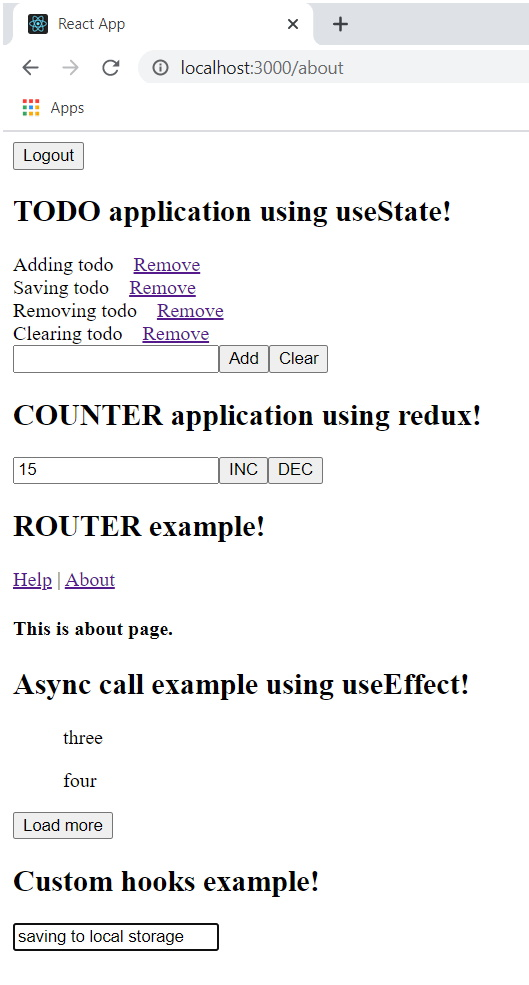
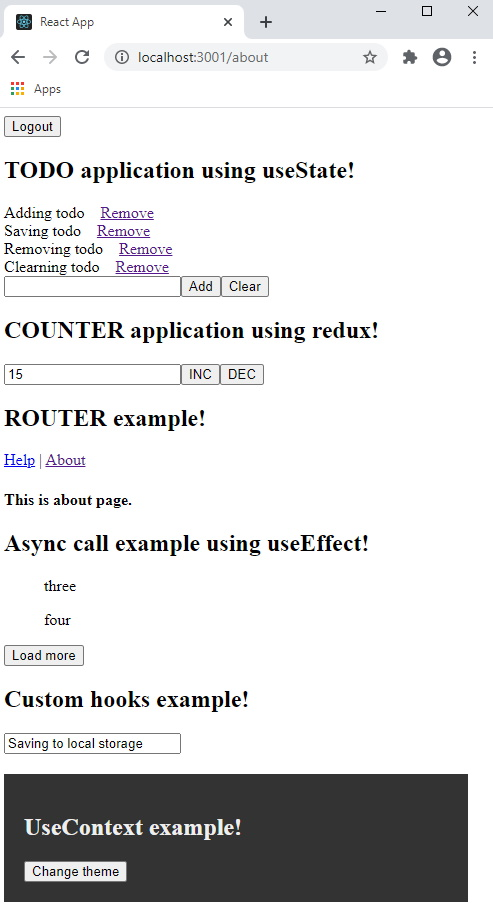
adding useContext example

Changed region(s): [[0.0, 0.0, 1.0, 0.546], [0.0, 0.5764, 0.9736, 1.0]]

diff --git a/src/App.js b/src/App.js
@@ -5,17 +5,18 @@ import Counter from './components/Counter';
 import Navigation from './components/Navigation';
 import SomeList from './components/SomeList';
 import SomeInput from './components/SomeInput';
+import ContextExample from './components/ContextExample';
+// importing custom hooks
+import { ThemeProvider } from './hooks/ThemeContext';
 
 
-
-function App () {
+export default function App () {
   // useState gives us the opportunity to maintain state.
   const [isLoggedIn, setLoggedIn] = useState(false);
-
   // keys to store in localStorage
   const IS_LOGGED_IN = "is_logged_in";
-
-
+  
+  
 
   // useEffect gives us the opportunity to react to changes on objects. 
   useEffect(() => {
@@ -42,6 +43,7 @@ function App () {
   
 
 
+
   if(isLoggedIn) {
     return (
         <div>
@@ -51,6 +53,9 @@ function App () {
           <Navigation />
           <SomeList />
           <SomeInput />
+          <ThemeProvider>
+            <ContextExample />
+          </ThemeProvider>
         </div>
     );
   } else {
@@ -61,6 +66,3 @@ function App () {
     )
   }
 }
-
-
-export default App;

diff --git a/src/hooks/ThemeContext.js b/src/hooks/ThemeContext.js
@@ -1,0 +1,32 @@
+import React, { useState, useContext } from 'react';
+
+// Creating two contexts
+export const ThemeContext = React.createContext();
+export const ThemeUpdateContext = React.createContext();
+
+// Custom hooks 1 (used by ContentExample)
+export function useTheme() {
+  return useContext(ThemeContext);
+}
+
+// Custom hooks 2 (used by ContextExample)
+export function useUpdateTheme() {
+  return useContext(ThemeUpdateContext);
+}
+
+// Custom hooks 3 (used by App)
+export function ThemeProvider({ children }) {
+  const [darkTheme, setDarkTheme]  = useState(false);
+
+  function changeThemeHandler (e) {
+    setDarkTheme(!darkTheme);
+  }
+
+  return (
+    <ThemeContext.Provider value={darkTheme}>
+      <ThemeUpdateContext.Provider value={changeThemeHandler}>
+        {children}
+      </ThemeUpdateContext.Provider>
+    </ThemeContext.Provider>
+  )
+}

diff --git a/src/components/ContextExample.js b/src/components/ContextExample.js
@@ -1,0 +1,23 @@
+import React, { useContext } from 'react';
+// importing custom hooks.
+import { useTheme, useUpdateTheme } from '../hooks/ThemeContext';
+
+
+export default function ContextExample() {
+  const dark = useTheme();
+  const changeThemeHandler = useUpdateTheme();
+
+  const themeStyle = {
+    backgroundColor: dark ? '#333' :  '#EEE',
+    color: dark ? '#EEE' : '#333',
+    padding: '20px 20px 20px 20px',
+    margin: '20px 20px 20px 0px'
+  }
+  
+  return (
+    <div style={themeStyle}>
+      <h2>UseContext example!</h2>
+      <button onClick={changeThemeHandler}>Change theme</button>
+    </div>
+  )
+}

diff --git a/src/components/Counter.js b/src/components/Counter.js
@@ -3,7 +3,7 @@ import { useSelector, useDispatch } from 'react-redux';
 import { increment, decrement, setcounter } from '../actions';
 
 
-function Counter() {
+export default function Counter() {
   // useSelector gives us the opportunity to access redux state.
   const counter = useSelector(state => state.counter);
   // useDispatch allows us to perform an action (sends action to reducer).
@@ -37,5 +37,3 @@ function Counter() {
     </div>
   )
 }
-
-export default Counter;

diff --git a/src/hooks/useLocalStorage.js b/src/hooks/useLocalStorage.js
@@ -1,8 +1,8 @@
-import React, { useState, useEffect } from 'react';
+import { useState, useEffect } from 'react';
 
 
 
-function useLocalStorage(key, initValue) {
+export default function useLocalStorage(key, initValue) {
   const [value, updateValue] = useState(initValue);
   
 
@@ -21,5 +21,3 @@ function useLocalStorage(key, initValue) {
   return [value, updateValue];
 
 }
-
-export default useLocalStorage;

diff --git a/src/components/SomeList.js b/src/components/SomeList.js
@@ -2,7 +2,7 @@ import React, { useState, useEffect } from 'react';
 import { v4 as uuid } from "uuid";
 
 
-function SomeList() {
+export default function SomeList() {
   // useState gives us the opportunity to maintain state.
   const [myList, setMyList] = useState([]);
   const [loadMore, setLoadMore] = useState(true);
@@ -92,5 +92,3 @@ function SomeList() {
     )
   }
 }
-
-export default SomeList;

diff --git a/src/components/TodoList.js b/src/components/TodoList.js
@@ -4,7 +4,7 @@ import { v4 as uuid } from "uuid";
 import Todo from './Todo';
 
 
-function TodoList() {
+export default function TodoList() {
   // useState gives us the opportunity to maintain state.
   const [todoList, setTodoList] = useState([]);
 
@@ -77,5 +77,3 @@ function TodoList() {
     </div>
   )
 }
-
-export default TodoList;

diff --git a/src/components/SomeInput.js b/src/components/SomeInput.js
@@ -1,7 +1,8 @@
 import React from 'react';
 import useLocalStorage from '../hooks/useLocalStorage';
 
-function SomeInput() {
+
+export default function SomeInput() {
   const [value, updateValue] = useLocalStorage("SomeInput", "");
 
 
@@ -18,5 +19,3 @@ function SomeInput() {
     </div>
   )
 }
-
-export default SomeInput;

diff --git a/src/components/Navigation.js b/src/components/Navigation.js
@@ -3,7 +3,7 @@ import { BrowserRouter as Router, Switch, Route } from 'react-router-dom';
 import { Link } from 'react-router-dom';
 
 
-function Navigation() {
+export default function Navigation() {
   return (
     <Router>
       
@@ -39,6 +39,3 @@ function About() {
     </h4>
   )
 }
-
-
-export default Navigation;

diff --git a/src/components/Todo.js b/src/components/Todo.js
@@ -1,6 +1,7 @@
 import React from 'react';
 
-function Todo({ todo, removeTodo }) {
+
+export default function Todo({ todo, removeTodo }) {
 
   function removeHandler(e) {
     removeTodo(todo.id);
@@ -15,5 +16,3 @@ function Todo({ todo, removeTodo }) {
     </div>
   )
 }
-
-export default Todo;
